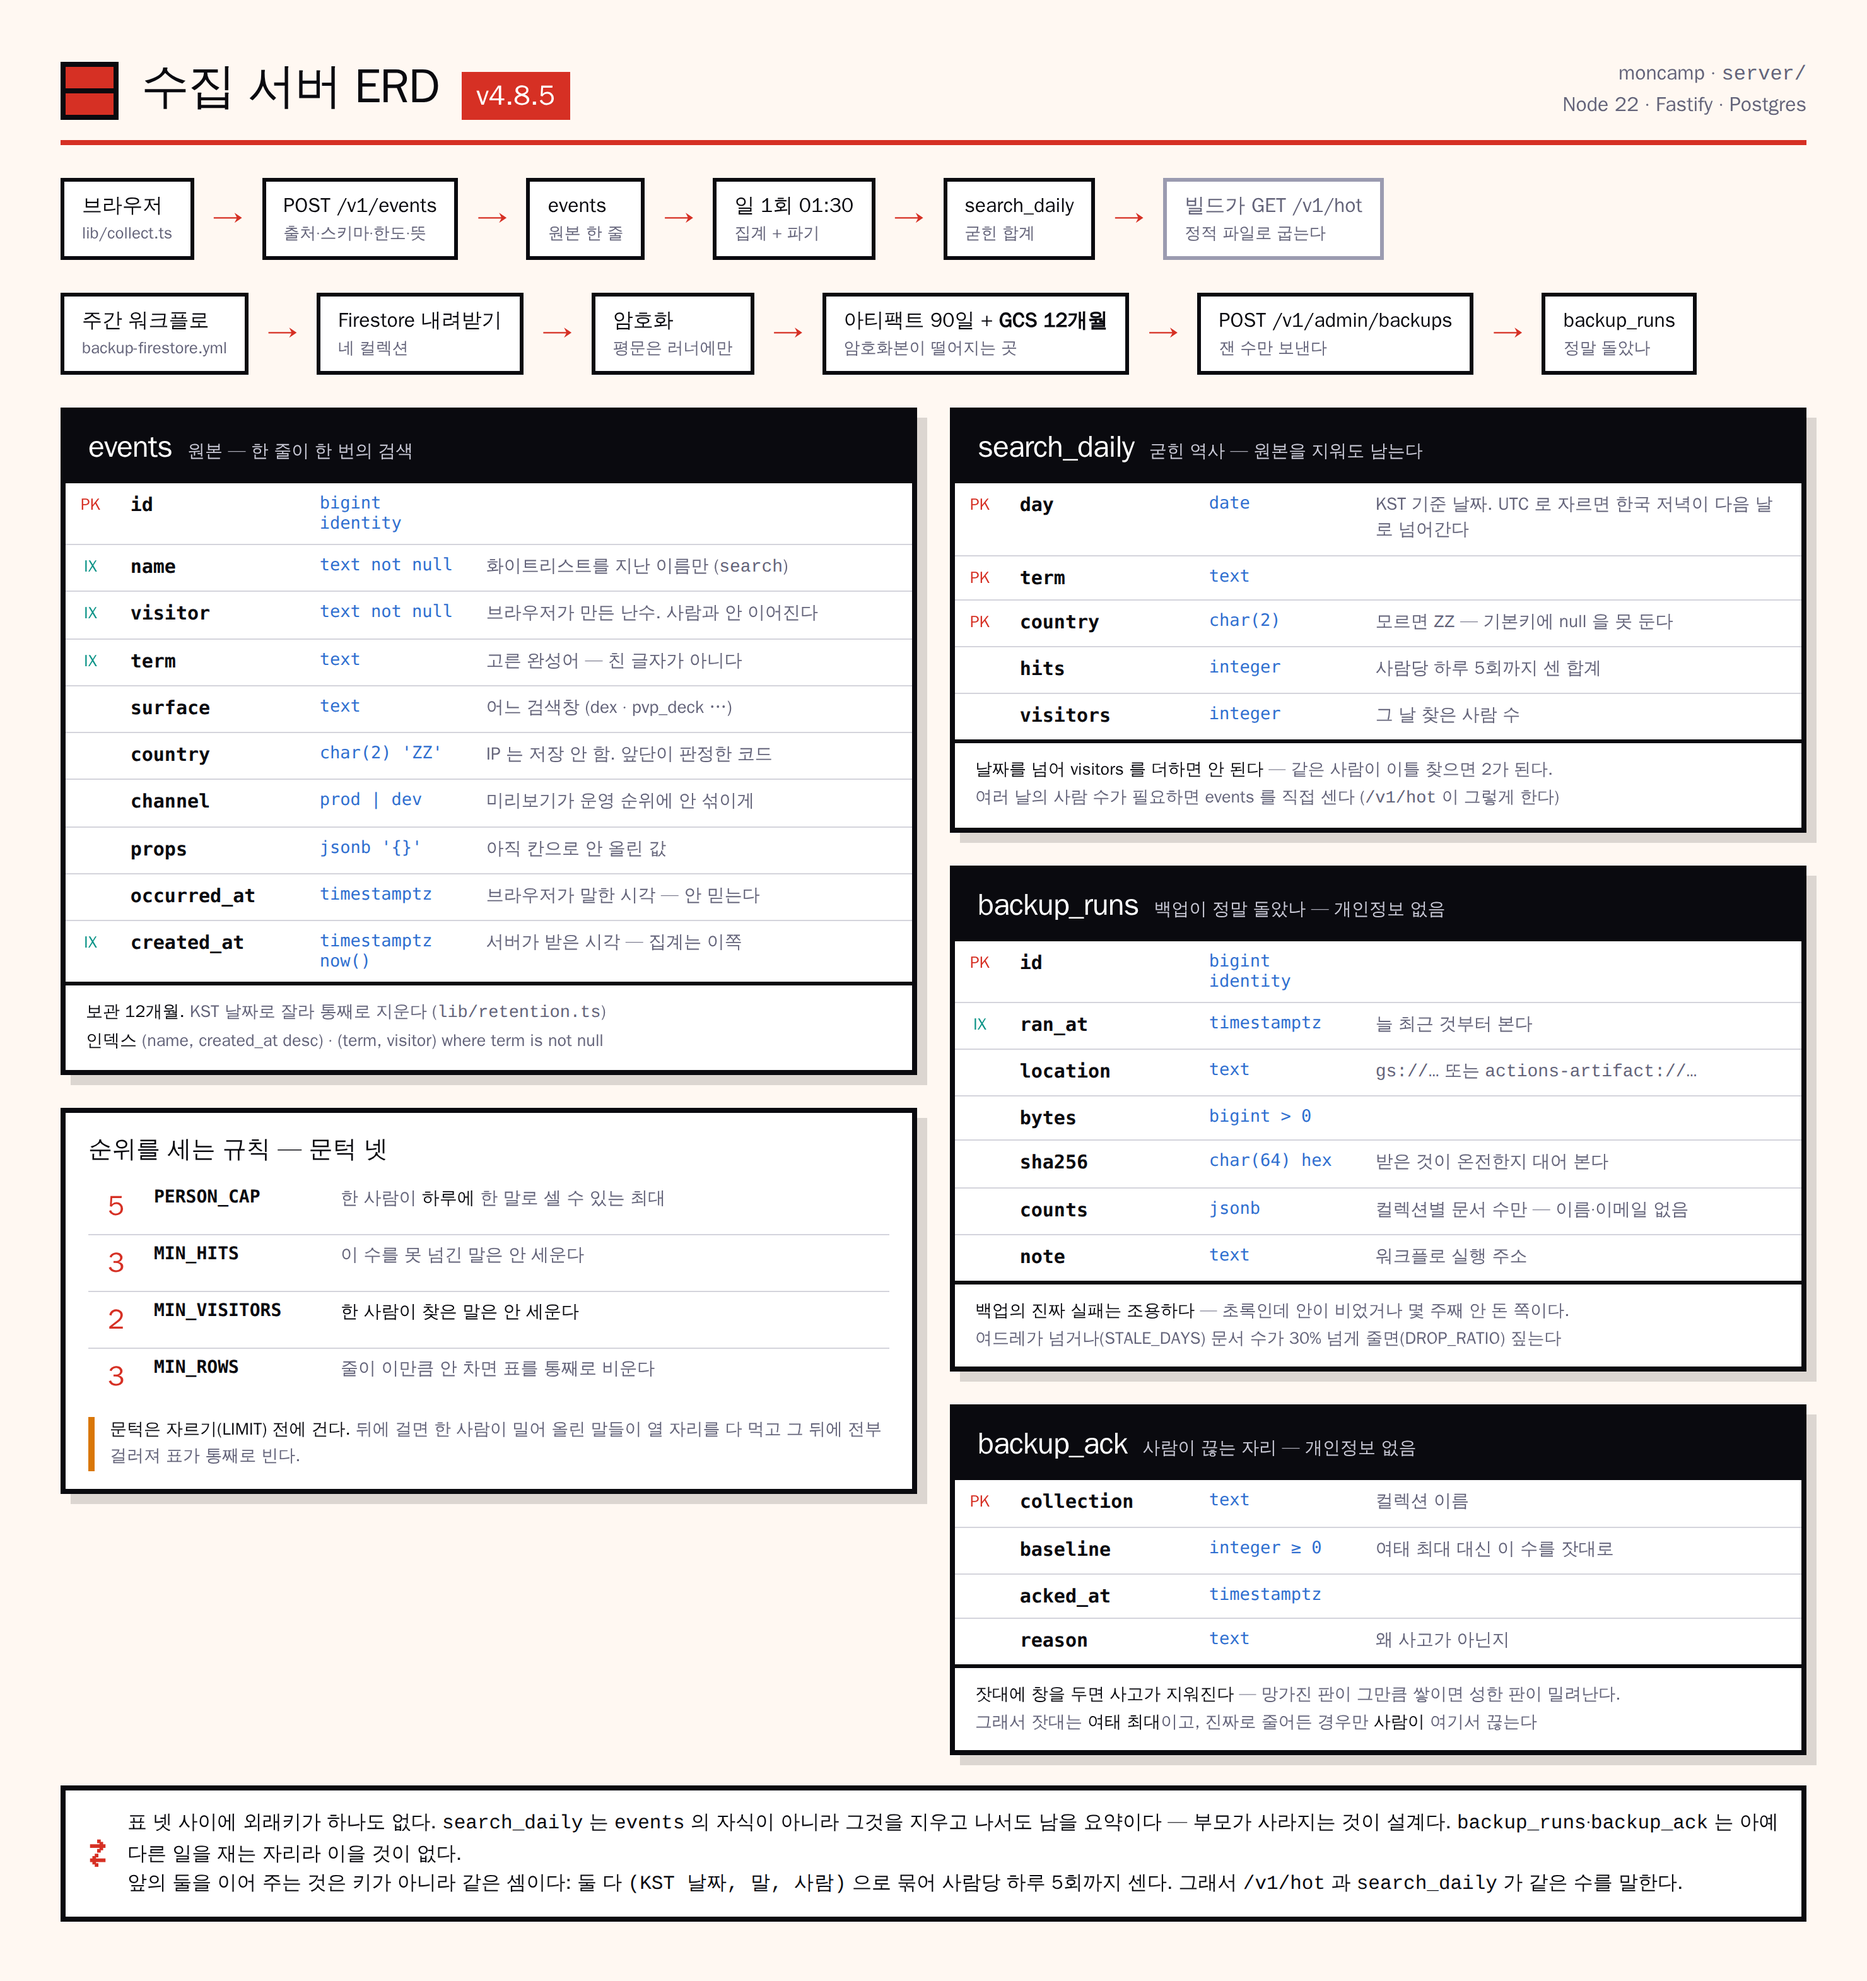
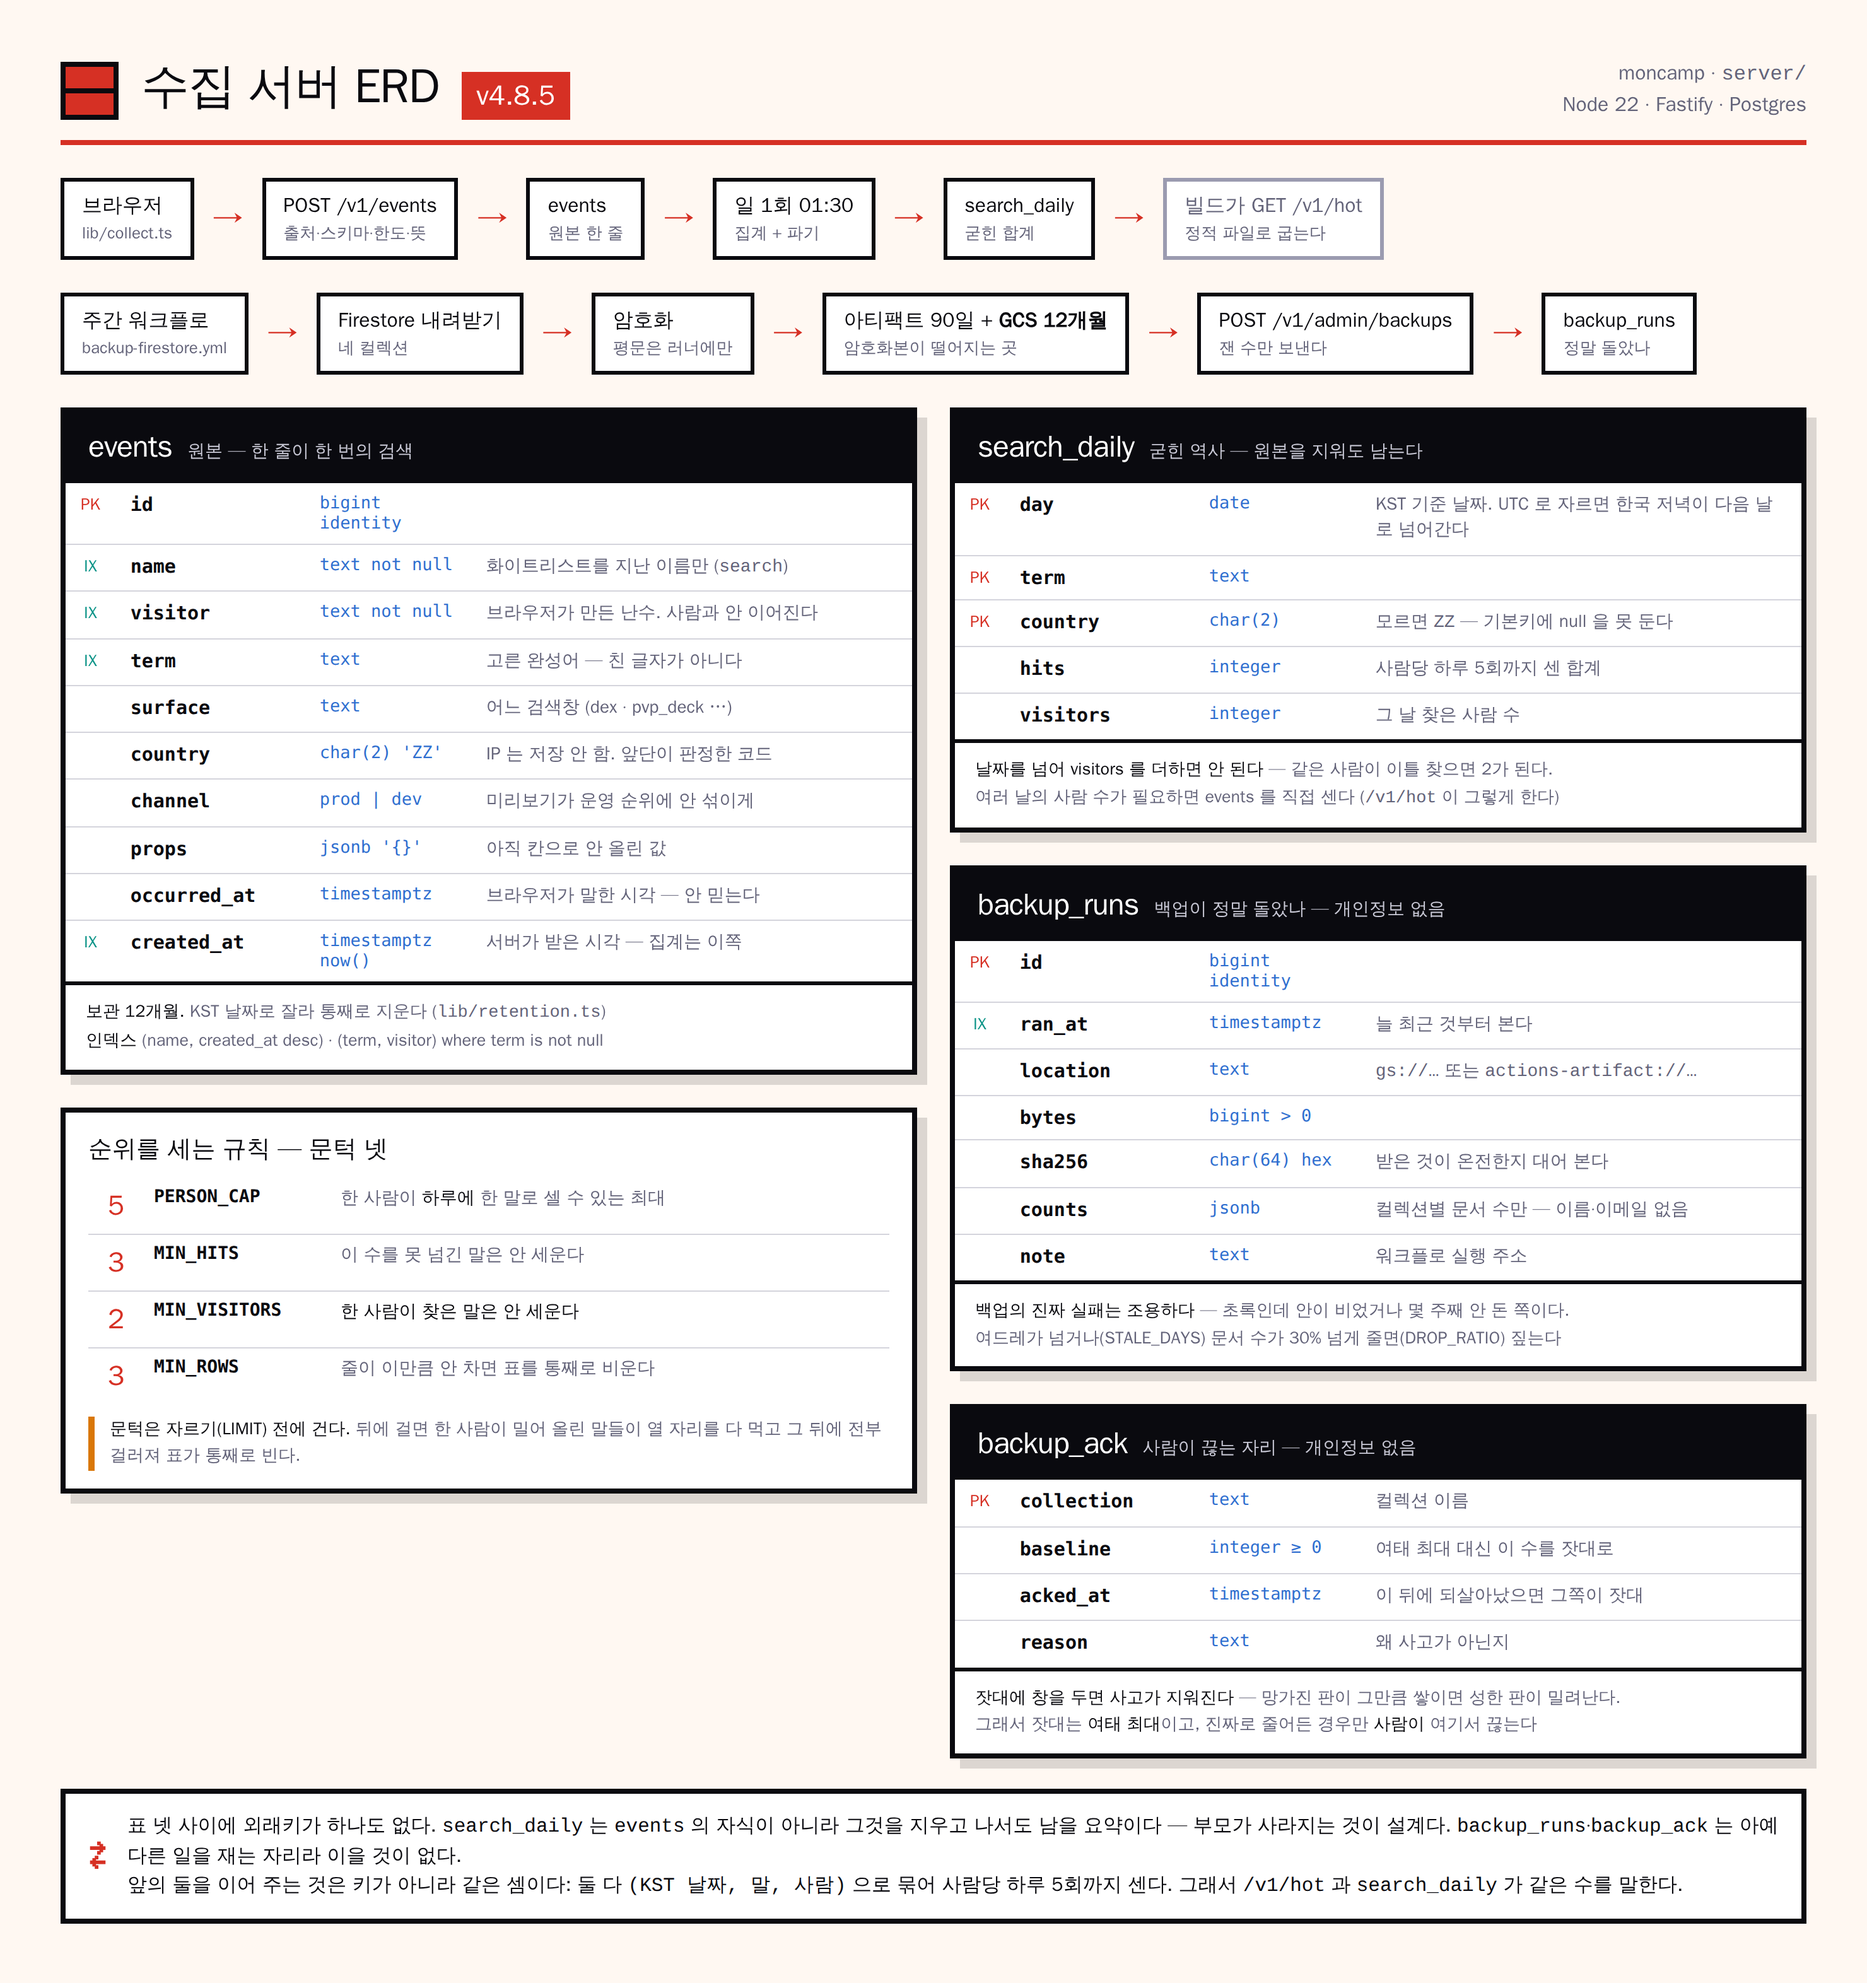
v4.8.5 이어 고침 — 못 박은 뒤 되살아나면 잣대도 따라 올라간다
backup_ack 가 여태 최대를 무조건 대신하고 있었다. 그러면 잣대가 낮은 채로 굳는다 —
40 으로 못 박고 100 으로 돌아온 뒤 다시 40 이 되면 그건 새 사고인데 옛 못이 덮는다.

잣대를 못 박은 수와 acked_at 이후에 본 가장 큰 수 중 큰 쪽으로 바꿨다.
못을 지우러 가지 않아도 되고, 못 박기가 뒷날의 손실을 가리지도 않는다.

검사 87 → 88. 못을 무조건 따르게 되돌려서 그 검사만 빨개지는 것을 확인했다.

Claude-Session: https://claude.ai/code/session_01Dw683V6TVo2Lwf4akzRMXT

diff --git a/server/src/lib/backup.ts b/server/src/lib/backup.ts
@@ -82,10 +82,22 @@ async function baselines(sql: Sql, before: Date): Promise<Map<string, number>> {
     where ran_at < ${before} and value ~ '^[0-9]+$'
     group by key`;
   const out = new Map(seen.map((one) => [one.name, one.best]));
-  // 사람이 "이만큼이면 됐다" 고 적어 둔 것은 여태 가장 컸던 수를 대신한다
-  const acked = await sql<{ collection: string; baseline: number }[]>`
-    select collection, baseline from backup_ack`;
-  for (const one of acked) out.set(one.collection, one.baseline);
+
+  // 사람이 "이만큼이면 됐다" 고 적어 둔 것이 여태 가장 컸던 수를 대신한다.
+  //
+  // **다만 못 박은 뒤에 되살아났으면 그쪽을 따른다** (v4.8.5 코드 리뷰).
+  // 안 그러면 잣대가 낮은 채로 굳는다 — 40 으로 못 박고 100 으로 돌아온 뒤
+  // 다시 40 이 되면, 그건 새 사고인데 옛 못이 덮어 버린다.
+  const acked = await sql<{ collection: string; baseline: number; since: number }[]>`
+    select b.collection, b.baseline,
+           coalesce(max(e.value::bigint), 0)::int as since
+    from backup_ack b
+    left join backup_runs r
+      on r.ran_at > b.acked_at and r.ran_at < ${before}
+    left join lateral jsonb_each_text(r.counts) e
+      on e.key = b.collection and e.value ~ '^[0-9]+$'
+    group by b.collection, b.baseline`;
+  for (const one of acked) out.set(one.collection, Math.max(one.baseline, one.since));
   return out;
 }
 

diff --git a/server/src/test/integration.test.ts b/server/src/test/integration.test.ts
@@ -454,6 +454,24 @@ describe.skipIf(!url)('통합 — 진짜 Postgres', () => {
     expect((await backupHealth(sql)).ok).toBe(false);
   });
 
+  // **못 박은 뒤에 되살아났으면 그쪽을 따른다** (v4.8.5 코드 리뷰).
+  // 안 그러면 잣대가 낮은 채로 굳어, 옛 못이 새 사고를 덮는다
+  it('못 박은 뒤 되살아나면 잣대도 따라 올라간다', async () => {
+    await sql`truncate backup_runs, backup_ack`;
+    await sql`insert into backup_ack (collection, baseline, acked_at)
+              values ('users', 40, now() - (10 * interval '1 day'))`;
+    // 판 사이는 여드레 안이다 — 여기서 보려는 것은 간격이 아니다
+    await logRun(12, { users: 100 }, 'a');   // 못 박기(10일 전) 전
+    await logRun(5, { users: 100 }, 'b');    // 못 박은 뒤 되살아났다
+    expect((await backupHealth(sql)).ok).toBe(true);
+
+    // 다시 40 이 됐다. 옛 못은 40 이지만 그 뒤 100 을 봤으므로 이건 새 사고다
+    await logRun(0, { users: 40 }, 'c');
+    const out = await backupHealth(sql);
+    expect(out.ok).toBe(false);
+    expect(out.problems.join(' ')).toContain('users');
+  });
+
   it('롤업이 일별 표를 채우고, 다시 돌려도 수가 안 부푼다', async () => {
     await sql`truncate events, search_daily`;
     for (let i = 0; i < 3; i += 1) await seed('굳은말', `r${i}`.padEnd(32, 'r'), 2);

diff --git a/docs/server-erd.html b/docs/server-erd.html
@@ -167,7 +167,7 @@
     <table>
       <tr><td class="k pk">PK</td><td class="n">collection</td><td class="t">text</td><td class="d">컬렉션 이름</td></tr>
       <tr><td class="k"></td><td class="n">baseline</td><td class="t">integer &ge; 0</td><td class="d">여태 최대 대신 이 수를 잣대로</td></tr>
-      <tr><td class="k"></td><td class="n">acked_at</td><td class="t">timestamptz</td><td class="d"></td></tr>
+      <tr><td class="k"></td><td class="n">acked_at</td><td class="t">timestamptz</td><td class="d">이 뒤에 되살아났으면 그쪽이 잣대</td></tr>
       <tr><td class="k"></td><td class="n">reason</td><td class="t">text</td><td class="d">왜 사고가 아닌지</td></tr>
     </table>
     <footer>

diff --git a/CHANGELOG.md b/CHANGELOG.md
@@ -53,11 +53,15 @@ on conflict (collection) do update set baseline = excluded.baseline, acked_at = 
 
 못 박은 수보다 더 줄면 다시 묻고, 되살아나면 못 박지 않아도 그 판에서 바로 조용해진다.
 
+**그리고 못 박은 뒤에 되살아났으면 잣대도 따라 올라간다.** 안 그러면 잣대가 낮은 채로 굳어,
+40 으로 못 박고 100 으로 돌아온 뒤 다시 40 이 되는 **새 사고**를 옛 못이 덮는다.
+잣대는 못 박은 수와 `acked_at` 이후에 본 가장 큰 수 중 **큰 쪽**이다.
+
 **총합 판정도 같은 잣대로 옮기고, 컬렉션이 아무것도 못 짚었을 때만 말하게 했다.**
 안 그러면 같은 사고를 두 번 외치고, 못 박기가 총합에는 안 먹어 조용해지지 않는다.
 총합이 홀로 잡는 것은 **어느 하나도 문턱을 안 넘었는데 여럿이 조금씩** 줄어든 경우다.
 
-검사 84 → **87건**. 되돌려서(창을 도로 씌워서) 그 검사만 빨개지는 것을 확인했다.
+검사 84 → **88건**. 되돌려서(창을 도로 씌우고, 못을 무조건 따르게 해서) 그 검사만 빨개지는 것을 확인했다.
 
 </details>
 

diff --git a/README.md b/README.md
@@ -166,7 +166,7 @@ Pokémon과 관련 명칭·이미지의 권리는 The Pokémon Company, Nintendo
 <details>
 <summary><b>v4.8.5</b> · 백업 사고가 시간이 지나면 지워지던 것을 막았습니다</summary>
 
-한 컬렉션이 비었을 때, 망가진 백업이 몇 판 쌓이면 성한 판이 비교 범위 밖으로 밀려나 판정이 저절로 괜찮아졌습니다. 비교 기준을 "여태까지의 최대" 로 바꿔 시간이 지나도 안 지워지게 했고, 진짜로 줄어든 경우만 사람이 직접 끊도록 했습니다. 화면에 보이는 변화는 없습니다.
+한 컬렉션이 비었을 때, 망가진 백업이 몇 판 쌓이면 성한 판이 비교 범위 밖으로 밀려나 판정이 저절로 괜찮아졌습니다. 비교 기준을 "여태까지의 최대" 로 바꿔 시간이 지나도 안 지워지게 했고, 진짜로 줄어든 경우만 사람이 직접 끊도록 했습니다. 한 번 끊은 뒤 수가 되살아나면 기준도 따라 올라가, 그 다음 사고를 옛 기준이 덮지 않습니다. 화면에 보이는 변화는 없습니다.
 
 </details>
 

diff --git a/docs/OPERATIONS.md b/docs/OPERATIONS.md
@@ -673,7 +673,11 @@ on conflict (collection) do update
 ```
 
 **기계가 스스로 잊지는 못한다.** 못 박은 수보다 더 줄면 다시 묻고,
-되살아나면 못 박지 않아도 그 판에서 바로 조용해진다. 백업 워크플로 쪽은 기록을 **넣고 나서**
+되살아나면 못 박지 않아도 그 판에서 바로 조용해진다.
+
+**못 박은 뒤 되살아나면 못을 지울 필요가 없다** (v4.8.5). 잣대는 못 박은 수와
+`acked_at` 이후에 본 가장 큰 수 중 **큰 쪽**이라, 40 으로 못 박고 100 으로 돌아온 뒤
+다시 40 이 되면 새 사고로 다시 묻는다 — 옛 못이 새 사고를 덮지 않는다. 백업 워크플로 쪽은 기록을 **넣고 나서**
 묻기 때문에 '마지막 백업의 나이' 로는 걸른 주가 안 보인다 — 그래서 간격 판정이 따로 있다.
 
 ### 17.3 되돌리기

diff --git a/server/SCHEMA.md b/server/SCHEMA.md
@@ -230,6 +230,10 @@ on conflict (collection) do update
 못 박은 수보다 더 줄면 다시 묻는다 — 한 번 끊었다고 영영 안 보는 것이 아니다.
 되살아나면 못 박지 않아도 그 판에서 바로 조용해진다.
 
+**못 박은 뒤에 되살아났으면 잣대도 따라 올라간다** (v4.8.5). 안 그러면 잣대가 낮은 채로 굳는다 —
+40 으로 못 박고 100 으로 돌아온 뒤 다시 40 이 되면 그건 **새 사고**인데 옛 못이 덮어 버린다.
+그래서 못 박은 수와 **`acked_at` 이후에 본 가장 큰 수** 중 큰 쪽을 쓴다.
+
 **③은 ④가 아무것도 못 짚었을 때만 말한다.** 같은 사고를 두 번 외치지 않는다 —
 ③이 잡는 것은 어느 하나도 문턱을 안 넘었는데 **여럿이 조금씩** 줄어든 경우다.
 
